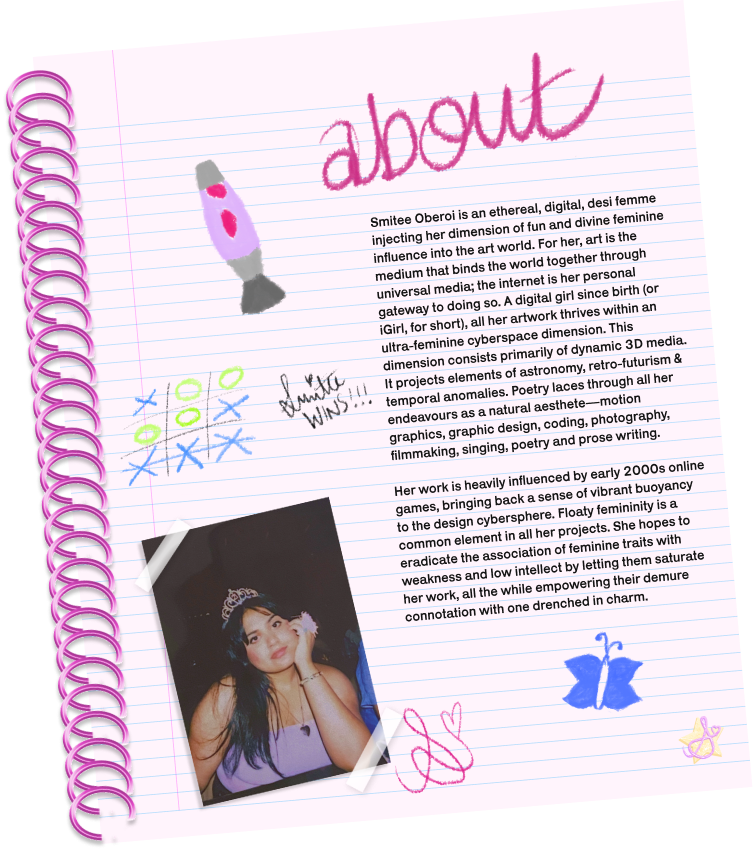
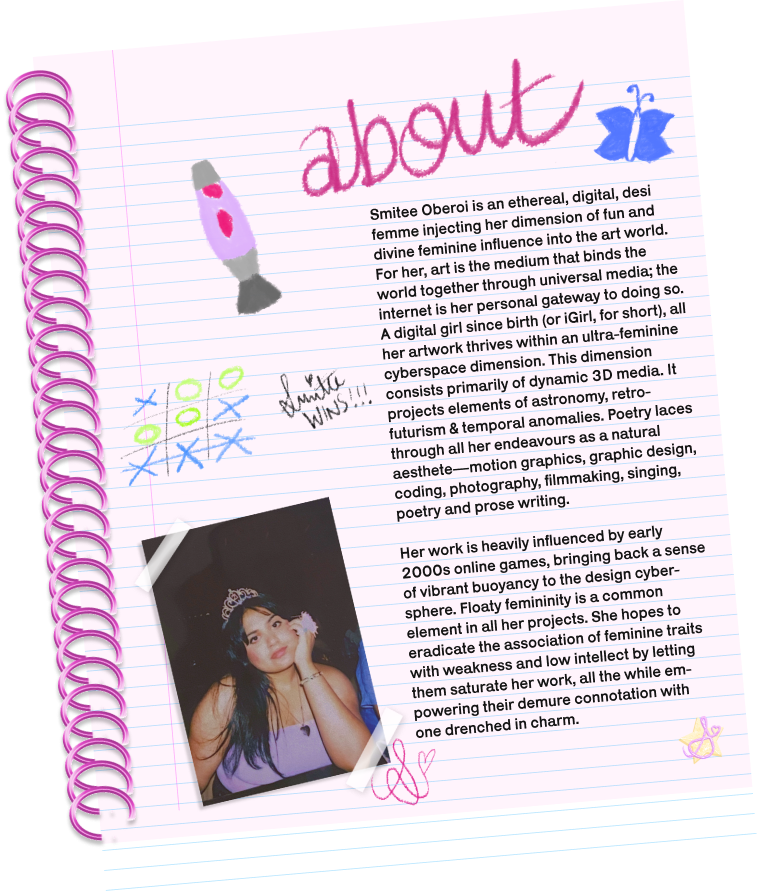
update

diff --git a/avant-garden.css b/avant-garden.css
@@ -1,149 +1,149 @@
 body {
-    background-color: #f4e6fd;
-    height: 100%;
-    width: 99vw;
+  background-color: #f4e6fd;
+  height: 100%;
+  width: 99vw;
 }
 
 .parent {
-    display: grid;
-    grid-template-columns: repeat(2, auto);
-    grid-template-rows: max-content;
-    gap: 1rem;
-    height: 100vh;
-    padding:15vh 3rem 0 1rem;
-    left: -1vh;
-    margin-left: 30%;
-    position: relative;
-    z-index: -1;
+  display: grid;
+  grid-template-columns: repeat(2, auto);
+  grid-template-rows: max-content;
+  gap: 1rem;
+  height: 100vh;
+  padding: 15vh 3rem 0 1rem;
+  left: -1vh;
+  margin-left: 30%;
+  position: relative;
+  z-index: -1;
 }
 
 .wblogo {
-    width: 100%;
+  width: 100%;
 }
 
 .mirror {
-    width: 85%;
-    grid-column-start: 1;
-    grid-row-start: 2;
-    grid-row-end: 3;
-    margin-top:60%;
-    margin-left: 2%;
+  width: 85%;
+  grid-column-start: 1;
+  grid-row-start: 2;
+  grid-row-end: 3;
+  margin-top: 60%;
+  margin-left: 2%;
 }
 
 @font-face {
-    font-family: "karrik";
-    src: url("elements/Karrik-Regular.woff") format('woff');
+  font-family: "karrik";
+  src: url("elements/Karrik-Regular.woff") format("woff");
 }
 
 .header {
-    font-family: karrik;
-    font-size: 2.3vw;
-    line-height: 120%pt;
-    color:rgb(188, 109, 237)
+  font-family: karrik;
+  font-size: 2.3vw;
+  line-height: 120%pt;
+  color: rgb(188, 109, 237);
 }
 
 .body {
-    font-size: 1.2vw;
-    font-family: Pt sans;
-    font-weight: 500;
-    padding-left: 0;
-    line-height: 150%;
-    color: rgb(84, 61, 61);
-    overflow: scroll;
+  font-size: 1.2vw;
+  font-family: Pt sans;
+  font-weight: 500;
+  padding-left: 0;
+  line-height: 150%;
+  color: rgb(84, 61, 61);
+  overflow: scroll;
 }
 
 .main-vid {
-    width:100%;
-    border-radius: 20px;
-    grid-column: span 2;
+  width: 100%;
+  border-radius: 20px;
+  grid-column: span 2;
 }
 .lipstick {
-    width: 18%;
-    z-index: 1;
-    position: fixed;
-    bottom: 3%;
-    left: 3%;
-    visibility: visible;
-    cursor: pointer;
+  width: 18%;
+  z-index: 2;
+  position: fixed;
+  bottom: 3%;
+  left: 3%;
+  visibility: visible;
+  cursor: pointer;
 }
 
 .lipstick2 {
-    width: 18%;
-    z-index: 1;
-    position: fixed;
-    bottom: 3%;
-    left: 3%;
-    visibility: hidden;
-    cursor: pointer;
+  width: 18%;
+  z-index: 2;
+  position: fixed;
+  bottom: 3%;
+  left: 3%;
+  visibility: hidden;
+  cursor: pointer;
 }
 
 .text {
-    position: fixed;
-    z-index: -1;
-    left: 0vh;
-    top: 16vh;
-    margin-right: 70%;
-    margin-left: 2%;
-    padding: 3.5%;
-    height: 70vh;
-    background-color: rgb(237, 215, 250);
-    padding: 20px;
-    border-radius: 20px;
-    border: solid rgba(255, 255, 255, 0.15) 12px;
-    overflow: scroll;
-
+  position: fixed;
+  z-index: 1;
+  left: 0vh;
+  top: 16vh;
+  margin-right: 70%;
+  margin-left: 2%;
+  padding: 3.5%;
+  height: 70vh;
+  background-color: rgb(237, 215, 250);
+  padding: 20px;
+  border-radius: 20px;
+  border: solid rgba(255, 255, 255, 0.15) 12px;
+  overflow: scroll;
 }
 
 .arrow {
-    position: fixed;
-    width: 25vh;
-    padding: 1%;
+  position: fixed;
+  width: 25vh;
+  padding: 1%;
 }
 
 .arrow-n {
-    position: fixed;
-    width: 25vh;
-    padding: 1%;
-    right: 0vh;
+  position: fixed;
+  width: 25vh;
+  padding: 1%;
+  right: 0vh;
 }
 
 .programme {
-    width: 115%;
-    grid-column-start: 2;
-    grid-row-start: 3;
-    grid-row-end: 3;
-   margin-left: -10%;
-    margin-top:-76%;
+  width: 115%;
+  grid-column-start: 2;
+  grid-row-start: 3;
+  grid-row-end: 3;
+  margin-left: -10%;
+  margin-top: -76%;
 }
 
 .poster {
-    width: 100%;
-    grid-column-start: 1;
-    grid-row-start: 3;
+  width: 100%;
+  grid-column-start: 1;
+  grid-row-start: 3;
 }
 
 .float {
-    width: 60%;
-    z-index: 2;
-    position: fixed;
-    margin-top: -1%;
-    margin-left: 10%;
-    visibility: visible;
+  width: 60%;
+  z-index: 2;
+  position: fixed;
+  margin-top: -1%;
+  margin-left: 10%;
+  visibility: visible;
+  pointer-events: none;
 }
 
 .ticket {
-    grid-row-start: 2;
-    grid-column-start: 1;
-    width: 130%;
-    margin-top: 0%;
-    z-index: 2;
-    /* margin-left: 5%; */
+  grid-row-start: 2;
+  grid-column-start: 1;
+  width: 130%;
+  margin-top: 0%;
+  z-index: 2;
+  /* margin-left: 5%; */
 }
 
 .phone {
-    grid-row-start: 2;
-    grid-column-start: 2;
-    width: 60%;
-    margin-top: -10%;
-    margin-left: 40%;
+  grid-row-start: 2;
+  grid-column-start: 2;
+  width: 60%;
+  margin-top: -10%;
+  margin-left: 40%;
 }

diff --git a/avant-garden.html b/avant-garden.html
@@ -23,7 +23,8 @@
         <img src="elements/lipstick2.png" class="lipstick2" id="show" onclick="lipstickshow()">
     <main class="text">
         <div class="header">Avant Garden: Poetry through the Lens of the Arts</div><br>
-        <div class="body">A poetry festival geared toward sapphics, Avant Garden takes inspiration from beauty, raw emotions and the culmination of the two in Sappho's poetry. The logo is a combination of the letters 'A' and 'G,' accompanied by the influence of Sappho's lyre and an oval around it to represent the emotional mirroring of poetry.
+        <div class="body">A poetry festival geared toward sapphics of colour, Avant Garden takes inspiration from beauty, raw emotions and the culmination of the two in Sappho's poetry; I chose the colour scheme of light pink and burgundy because I wanted to capture that essence. Where the pink brings in delicacy and grace, the red brings in the idea of blood and emotion. The two play amongst each other, the pink taking the place of skin and the red taking the place of ink. <br><br> The logo is a combination of the letters 'A' and 'G,' accompanied by the influence of Sappho's lyre and an oval around it to represent the emotional mirroring of poetry. Along with being invites and posters, all 3D elements would be projected and/or present in the event space itself. The gold, because to me gold jewellery represents Indian femininity. Mirrors, because the idea of seeing our own unfiltered reactions to experiencing poetry is a way to witness the physical representation of our interpretations. <br><br><br>
+            
         </div>
     </main>
 </body>

diff --git a/contact.html b/contact.html
@@ -10,12 +10,13 @@
     <title>contact ☆ smitee oberoi</title>
 </head>
 <body>
-    <div class="phone-container"><img class="phone" src="elements/contact/contact-phone.png" alt="" srcset=""></div>
-    <div class="container">
+    <div class="phone-container"><img class="phone" src="elements/contact/contact-phone.png" alt="" srcset="">
+<div class="container">
         <div class="linkedin"><a href="https://www.linkedin.com/in/smitee-oberoi-0127a420b/" target="_blank" rel="noopener noreferrer"><img src="elements/contact/linkedin.png" alt="linkedin"></a></div>
         <div class="mail"><a href="mailto: smiteeoberoi@gmail.com"><img src="elements/contact/mail.png" onclick="motion()" alt="mail"></a></div>
         <div class="twitter"><a href="https://instagram.com/astralkru.mp4" target="_blank" rel="noopener noreferrer"><img src="elements/contact/twitter.png" alt="motion instagram"></a></div>
         <div class="instagram"><a href="https://www.instagram.com/astralkru/" target="_blank" rel="noopener noreferrer"><img src="elements/contact/instagram.png" alt="instagram"></a></div>
+    </div>
     </div>
 </body>
 

diff --git a/contact.css b/contact.css
@@ -10,34 +10,39 @@ body {
   display: flex;
   justify-content: center;
   align-items: center;
-  height: 800px;
-  margin-left: 30.5%;
-  margin-top: -17.5%;
-  z-index: -1;
+  z-index: 1;
   position: absolute;
+  top: 0;
+  bottom: 0;
+  left: 22.3vw;
+  right: 0;
 }
 
 .container img {
   display: block;
-  margin-left: auto;
-  margin-right: auto;
-  width: 7vw;
+  margin: auto;
+  margin-top: -150%;
+  width: 8vw;
 }
 
 .phone {
   display: block;
-  margin-left: auto;
-  margin-right: auto;
-  margin-top: -30%;
+  margin: auto;
   width: 60vw;
+  position: absolute;
+  top: 0;
+  bottom: 0;
+  left: 0;
+  right: 0;
 }
 
 .phone-container {
-  top: 0%;
+  margin-top: auto;
+  margin-bottom: auto;
   display: flex;
   justify-content: center;
   align-items: center;
-  height: 800px;
+  height: 100%;
   margin-left: 22%;
   z-index: -1;
   position: absolute;

diff --git a/about.css b/about.css
@@ -1,6 +1,6 @@
 body {
   background: url("elements/about/bg.png") no-repeat;
-  background-size: 100vw 103vh;
+  background-size: 100vw 120%;
   height: max-content;
   background-color: #a0abff;
   overflow: hidden;
@@ -8,19 +8,16 @@ body {
 
 .page {
   display: block;
-  margin-left: auto;
-  margin-right: auto;
-  margin-top: -40vh;
-  width: 40vw;
-}
-
-.page-container {
-  top: 0%;
-  display: flex;
-  justify-content: center;
-  align-items: center;
-  height: 800px;
-  margin-left: 28%;
-  z-index: -1;
+  margin: auto;
+  width: 40%;
+  padding-top: 2%;
   position: absolute;
+  top: 0;
+  bottom: 0;
+  left: 0;
+  right: 0;
 }
+/* 
+.page-container {
+  
+} */
